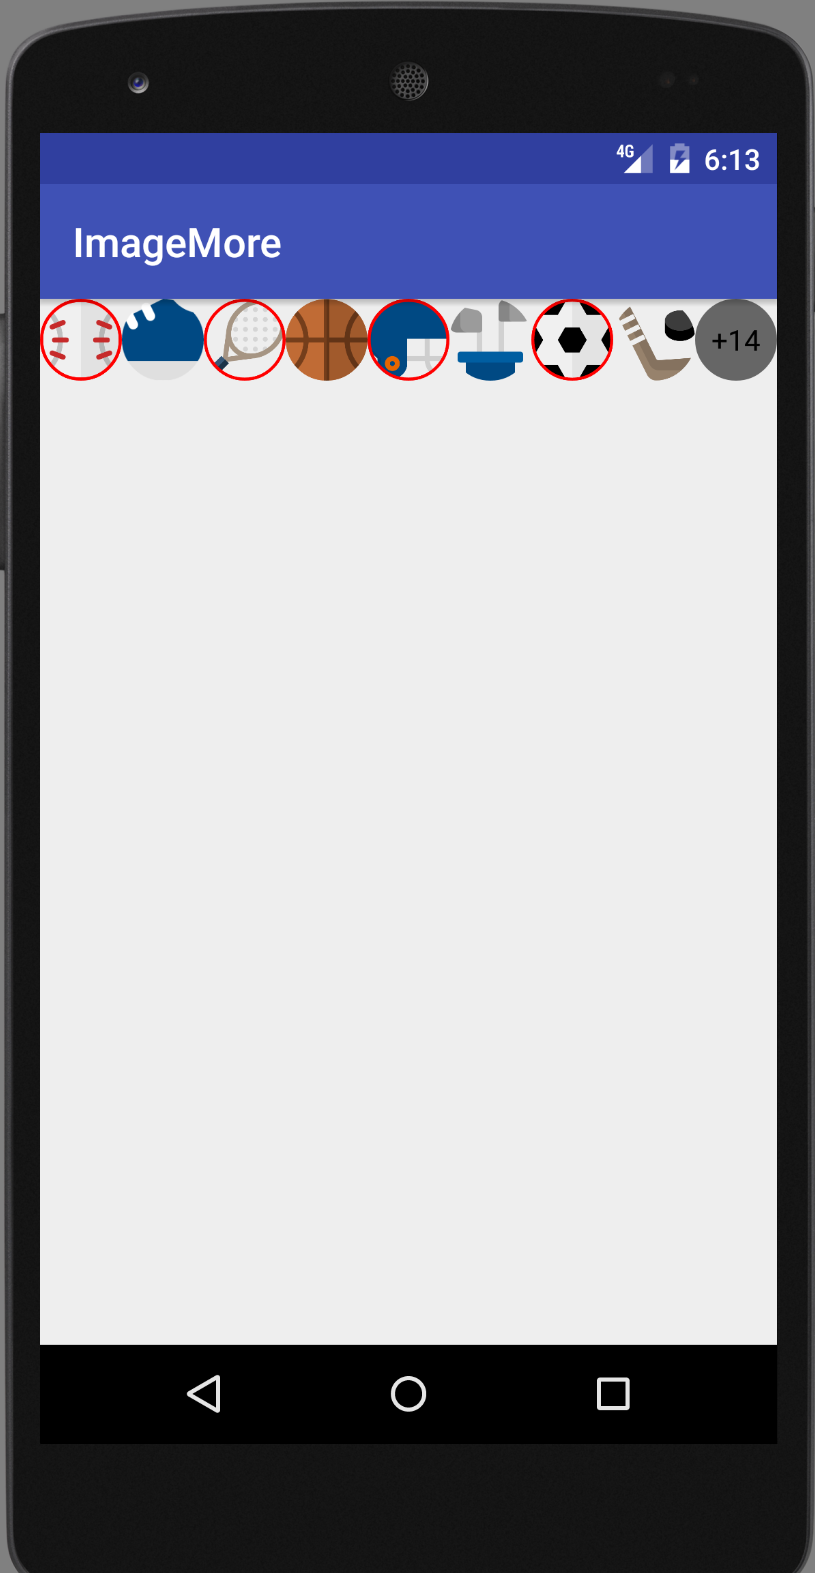
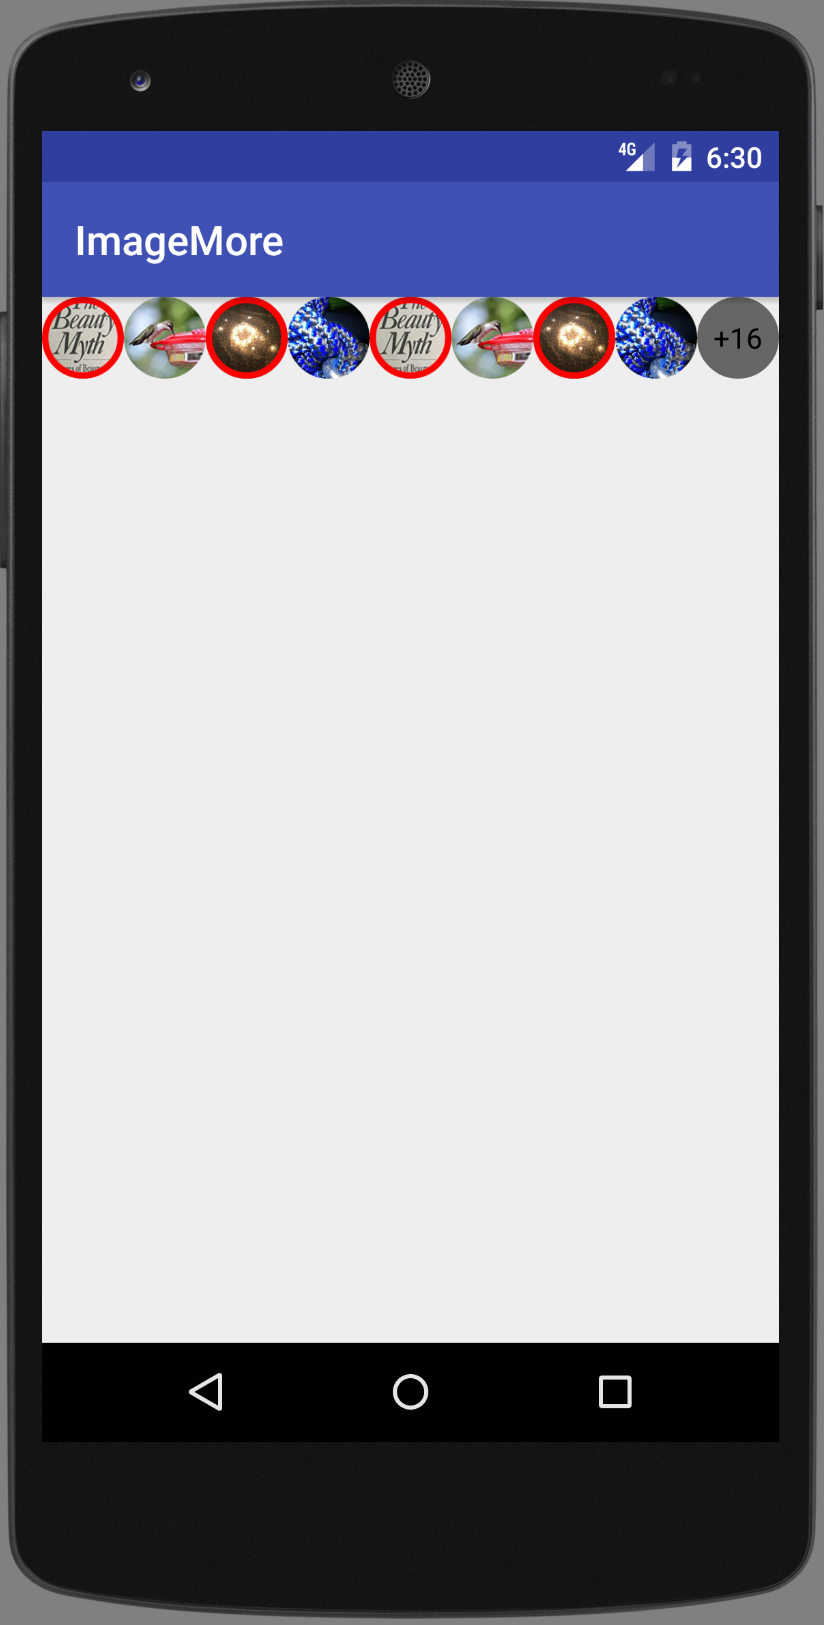
add readme

Changed region(s): [[0.0, 0.0, 1.0, 1.0]]

diff --git a/app/src/main/java/com/applikeysolutions/imagemore/example/ImageMoreExampleActivity.java b/app/src/main/java/com/applikeysolutions/imagemore/example/ImageMoreExampleActivity.java
@@ -28,28 +28,30 @@ public class ImageMoreExampleActivity extends AppCompatActivity {
     int index;
 
     String[] images = new String[]{
-            "https://gosportnow.s3.amazonaws.com/uploads/staging/uploads/sport/source/39/baseball.png",
-            "https://gosportnow.s3.amazonaws.com/uploads/staging/uploads/sport/source/45/running.png",
-            "https://gosportnow.s3.amazonaws.com/uploads/staging/uploads/sport/source/43/tennis.png",
-            "https://gosportnow.s3.amazonaws.com/uploads/staging/uploads/sport/source/41/basketball.png",
-            "https://gosportnow.s3.amazonaws.com/uploads/staging/uploads/sport/source/38/football.png",
-            "https://gosportnow.s3.amazonaws.com/uploads/staging/uploads/sport/source/44/golf.png",
-            "https://gosportnow.s3.amazonaws.com/uploads/staging/uploads/sport/source/42/soccer.png",
-            "https://gosportnow.s3.amazonaws.com/uploads/staging/uploads/sport/source/40/hockey.png",
-            "https://gosportnow.s3.amazonaws.com/uploads/staging/uploads/sport/source/45/running.png",
-            "https://gosportnow.s3.amazonaws.com/uploads/staging/uploads/sport/source/39/baseball.png",
-            "https://gosportnow.s3.amazonaws.com/uploads/staging/uploads/sport/source/43/tennis.png",
-            "https://gosportnow.s3.amazonaws.com/uploads/staging/uploads/sport/source/41/basketball.png",
-            "https://gosportnow.s3.amazonaws.com/uploads/staging/uploads/sport/source/38/football.png",
-            "https://gosportnow.s3.amazonaws.com/uploads/staging/uploads/sport/source/44/golf.png",
-            "https://gosportnow.s3.amazonaws.com/uploads/staging/uploads/sport/source/42/soccer.png",
-            "https://gosportnow.s3.amazonaws.com/uploads/staging/uploads/sport/source/45/running.png",
-            "https://gosportnow.s3.amazonaws.com/uploads/staging/uploads/sport/source/39/baseball.png",
-            "https://gosportnow.s3.amazonaws.com/uploads/staging/uploads/sport/source/43/tennis.png",
-            "https://gosportnow.s3.amazonaws.com/uploads/staging/uploads/sport/source/41/basketball.png",
-            "https://gosportnow.s3.amazonaws.com/uploads/staging/uploads/sport/source/38/football.png",
-            "https://gosportnow.s3.amazonaws.com/uploads/staging/uploads/sport/source/44/golf.png",
-            "https://gosportnow.s3.amazonaws.com/uploads/staging/uploads/sport/source/42/soccer.png"
+            "https://images-na.ssl-images-amazon.com/images/I/7106mGW8G0L._CR0,204,1224,1224_UX128.jpg",
+            "https://images-na.ssl-images-amazon.com/images/I/51pe8goqQZL._CR0,42,632,632_UX128.jpg",
+            "https://images-na.ssl-images-amazon.com/images/I/71uIBqKXsNL._CR0,204,1224,1224_UX128.jpg",
+            "https://images-na.ssl-images-amazon.com/images/I/81M9aIxQANL._CR408,0,1063,1063_UX128.jpg",
+            "https://images-na.ssl-images-amazon.com/images/I/7106mGW8G0L._CR0,204,1224,1224_UX128.jpg",
+            "https://images-na.ssl-images-amazon.com/images/I/51pe8goqQZL._CR0,42,632,632_UX128.jpg",
+            "https://images-na.ssl-images-amazon.com/images/I/71uIBqKXsNL._CR0,204,1224,1224_UX128.jpg",
+            "https://images-na.ssl-images-amazon.com/images/I/81M9aIxQANL._CR408,0,1063,1063_UX128.jpg",
+            "https://images-na.ssl-images-amazon.com/images/I/7106mGW8G0L._CR0,204,1224,1224_UX128.jpg",
+            "https://images-na.ssl-images-amazon.com/images/I/51pe8goqQZL._CR0,42,632,632_UX128.jpg",
+            "https://images-na.ssl-images-amazon.com/images/I/71uIBqKXsNL._CR0,204,1224,1224_UX128.jpg",
+            "https://images-na.ssl-images-amazon.com/images/I/81M9aIxQANL._CR408,0,1063,1063_UX128.jpg",
+            "https://images-na.ssl-images-amazon.com/images/I/7106mGW8G0L._CR0,204,1224,1224_UX128.jpg",
+            "https://images-na.ssl-images-amazon.com/images/I/51pe8goqQZL._CR0,42,632,632_UX128.jpg",
+            "https://images-na.ssl-images-amazon.com/images/I/71uIBqKXsNL._CR0,204,1224,1224_UX128.jpg",
+            "https://images-na.ssl-images-amazon.com/images/I/81M9aIxQANL._CR408,0,1063,1063_UX128.jpg",
+            "https://images-na.ssl-images-amazon.com/images/I/7106mGW8G0L._CR0,204,1224,1224_UX128.jpg",
+            "https://images-na.ssl-images-amazon.com/images/I/51pe8goqQZL._CR0,42,632,632_UX128.jpg",
+            "https://images-na.ssl-images-amazon.com/images/I/71uIBqKXsNL._CR0,204,1224,1224_UX128.jpg",
+            "https://images-na.ssl-images-amazon.com/images/I/81M9aIxQANL._CR408,0,1063,1063_UX128.jpg",
+            "https://images-na.ssl-images-amazon.com/images/I/7106mGW8G0L._CR0,204,1224,1224_UX128.jpg",
+            "https://images-na.ssl-images-amazon.com/images/I/51pe8goqQZL._CR0,42,632,632_UX128.jpg",
+            "https://images-na.ssl-images-amazon.com/images/I/71uIBqKXsNL._CR0,204,1224,1224_UX128.jpg",
+            "https://images-na.ssl-images-amazon.com/images/I/81M9aIxQANL._CR408,0,1063,1063_UX128.jpg"
     };
 
     @Override

diff --git a/README.md b/README.md
@@ -1,0 +1,26 @@
+#ImageMore
+
+A simple UI element for a long list of images which are not put on screen
+
+<img src="screenshots/ImageMore.PNG" alt="" width="240"/>
+
+## Usage
+
+Declare in your layout:
+
+```xml
+        <com.applikeysolutions.imagemore.ImageMore
+            android:id="@+id/imageMore"
+            android:layout_width="match_parent"
+            app:counterBackground="@drawable/round_counter"
+            android:layout_height="40dp" />
+```
+
+Then just add links to images:
+
+```java
+        Image imageMore = (ImageMore) findViewById(R.id.imageMore);
+        imageMore.addItem("https://images-na.ssl-images-amazon.com/images/I/7106mGW8G0L._CR0,204,1224,1224_UX128.jpg");
+```
+
+See [sample](sample/src/main/java/com/applikeysolutions/imagemore/example/ImageMoreExampleActivity.java).
